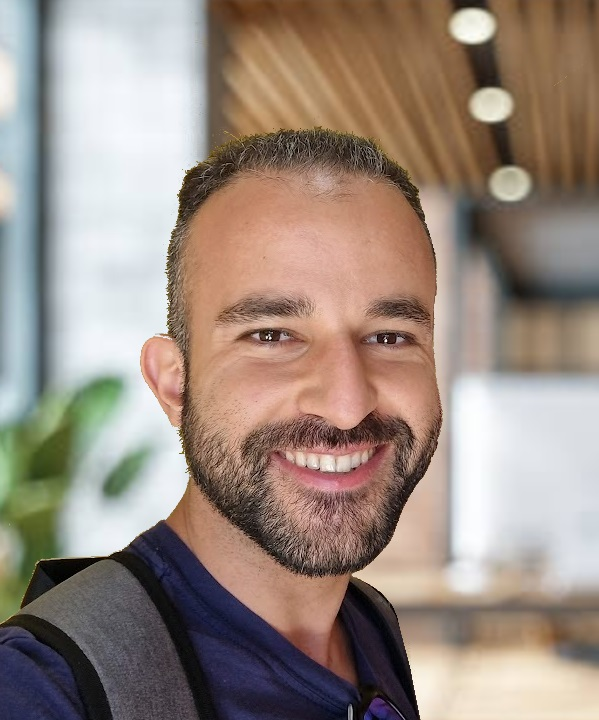
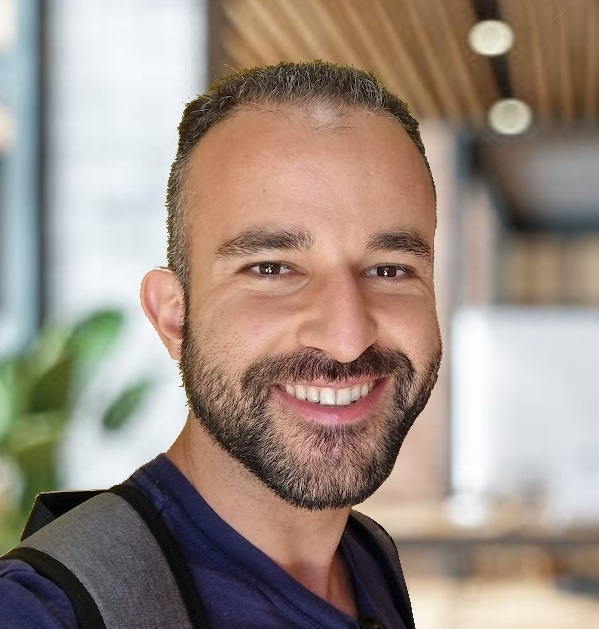
update infos

diff --git a/index.html b/index.html
@@ -11,10 +11,10 @@
     <!-- Favicon -->
     <link href="img/favicon.ico" rel="icon">
 
-    <!-- Google Web Fonts -->
+    <!-- Google Web Fonts
     <link rel="preconnect" href="https://fonts.gstatic.com">
     <link href="https://fonts.googleapis.com/css2?family=Roboto:wght@300;400;500;700;900&display=swap" rel="stylesheet"> 
-
+ -->
     <!-- Font Awesome -->
     <link href="https://cdnjs.cloudflare.com/ajax/libs/font-awesome/6.2.0/css/all.min.css" rel="stylesheet">
 
@@ -90,7 +90,7 @@
         <div class="container">
             <div class="row align-items-center">
                 <div class="col-lg-5 px-5 pl-lg-0 pb-5 pb-lg-0">
-                    <img class="img-fluid w-100 rounded-circle shadow-sm" src="img/profile.jpg" alt="">
+                    <img class="img-fluid w-80 rounded-circle shadow-sm" style="max-width: 80% !important" src="img/profile.jpg" alt="">
                 </div>
                 <div class="col-lg-7 text-center text-lg-left">
                     <h3 class="text-white font-weight-normal mb-3">I'm</h3>
